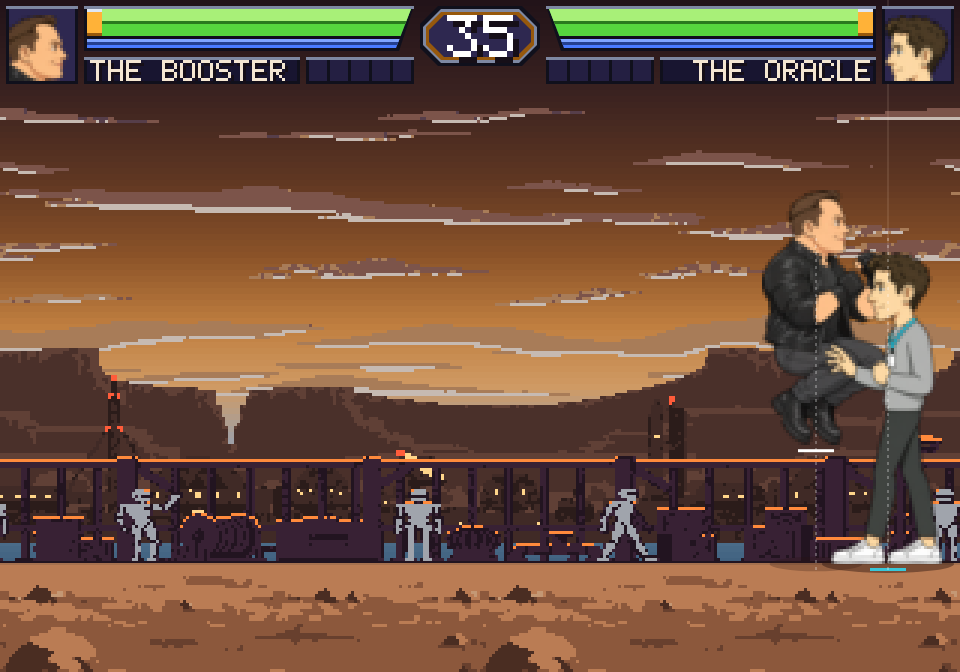
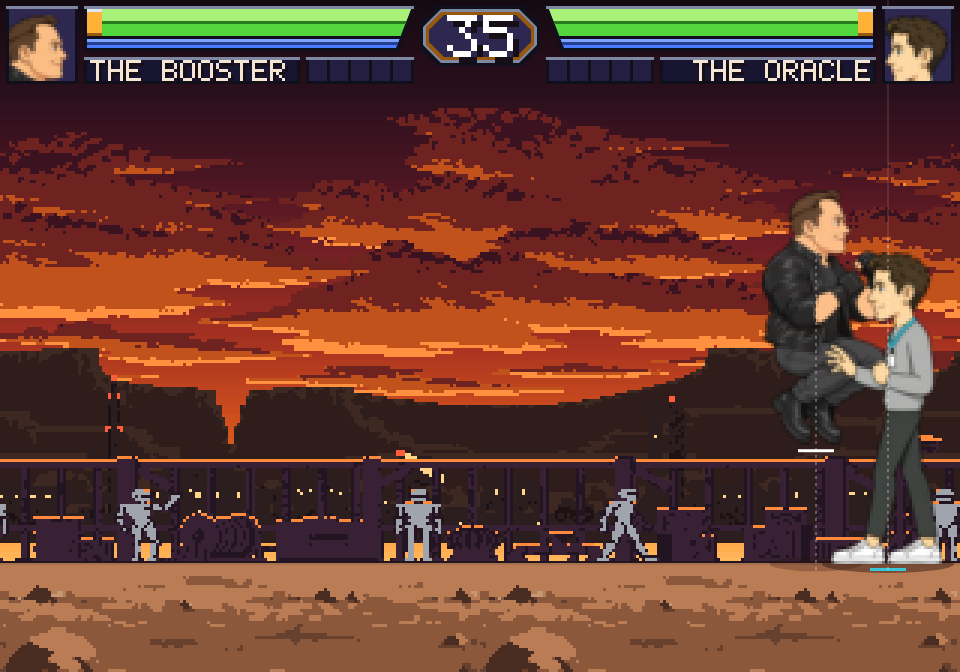
feat(arcade): give Mars a dust-storm sky instead of a muted clear day
The clear-day palette was too muted -- the mesas dissolved into the haze and the
stage lost the drama the previous Earth-sunset version had. I had claimed the sky
was already near the top of what Mars can plausibly do. That was wrong: I had picked
a CLEAR-DAY palette. Dust storms produce genuinely blazing red skies, so the drama
was available all along without giving up the setting.

Three candidates were rendered live and compared side by side rather than argued
about: the muted clear day, the Earth ramp restored, and a dust storm. The dust storm
wins -- deep crimson, no blue anywhere, and it still reads unmistakably as Mars
because the mesas, outpost, robots and regolith are untouched.

The gap between the Mars and Earth versions was never the sky colour. It was the
CLOUD SHAPES. Thin wisps are the correct call for a calm Martian day and they were
costing all the drama. The clouds are regenerated as dust-storm banks with real
vertical mass, built from torn wind-sheared horizontal shelves rather than
cauliflower lobes -- which is what keeps them reading as dust rather than water
vapour while hitting as hard as cumulus.

Silhouettes darkened at the same time so the mesas read as landforms. That could NOT
be done by handing the normaliser a darker palette: modal voting maps each source
pixel to its nearest entry, so two uniformly darker entries both lost to whichever
was closer and the ridge collapsed to one tone. The tool reported `1/2 entries used`,
[…]

diff --git a/src/game/marsArcadeStage.ts b/src/game/marsArcadeStage.ts
@@ -142,9 +142,9 @@ export interface MarsArcadeBand {
  * visible banding, because the cabinet should still look drawn rather than shaded.
  */
 const SKY_ANCHORS: ReadonlyArray<readonly [number, string]> = [
-  [0, '#221319'], [30, '#3a2220'], [58, '#5e3622'], [84, '#8a5228'],
-  [108, '#c07f40'], [128, '#cf9a64'], [146, '#9fa0a6'], [162, '#6e8ba0'],
-  [175, '#52728e'], [188, '#3e5f7e'],
+  [0, '#160a12'], [30, '#2a0f1c'], [58, '#4a1522'], [84, '#752024'],
+  [114, '#a83320'], [142, '#d4521c'], [166, '#f57d22'], [176, '#ff9e3c'],
+  [188, '#ffbe63'],
 ]
 const SKY_STEP = 2
 
@@ -211,9 +211,9 @@ export const MARS_ARCADE_BANDS: MarsArcadeBand[] = [...skyRamp(), ...FLOOR_BANDS
 const BACKDROP_ROOT = '/art-source/arcade/generated/backdrop-v1'
 
 export const MARS_ARCADE_BACKDROP: MarsArcadeBackdropLayer[] = [
-  { id: 'clouds', src: `${BACKDROP_ROOT}/clouds-mars-320x96.png`, parallax: 0.1, spanWidth: 320, width: 320, height: 96, bottomRow: 132 },
-  { id: 'ridge', src: `${BACKDROP_ROOT}/ridge-mars-320x56.png`, parallax: 0.2, spanWidth: 320, width: 320, height: 56, bottomRow: 172 },
-  { id: 'colony', src: `${BACKDROP_ROOT}/colony-mars-320x56.png`, parallax: 0.42, spanWidth: 320, width: 320, height: 56, bottomRow: 181 },
+  { id: 'clouds', src: `${BACKDROP_ROOT}/clouds-dust-320x96.png`, parallax: 0.1, spanWidth: 320, width: 320, height: 96, bottomRow: 132 },
+  { id: 'ridge', src: `${BACKDROP_ROOT}/ridge-mars-dark-320x56.png`, parallax: 0.2, spanWidth: 320, width: 320, height: 56, bottomRow: 172 },
+  { id: 'colony', src: `${BACKDROP_ROOT}/colony-mars-dark-320x56.png`, parallax: 0.42, spanWidth: 320, width: 320, height: 56, bottomRow: 181 },
   { id: 'apron', src: `${BACKDROP_ROOT}/apron-mars-320x44.png`, parallax: 0.74, spanWidth: 320, width: 320, height: 44, bottomRow: 189 },
   { id: 'ground', src: `${BACKDROP_ROOT}/ground-160x36.png`, parallax: 1, spanWidth: 160, width: 160, height: 36, bottomRow: 224 },
 ]

diff --git a/asset-reports/mars-arcade-backdrop-2026-09-22.md b/asset-reports/mars-arcade-backdrop-2026-09-22.md
@@ -214,3 +214,45 @@ grit; on the apron plane it stands about 28 px and reads as a machine.
 
 **The DC-9 is gone from the backdrop only.** `fx.flyby` — THE CAPTAIN's special — still
 carries it, and was deliberately left alone because it is a move, not scenery.
+
+## The dust-storm pass — 2026-09-22 (late)
+
+Owner on the clear-day Mars palette: *"too muted, might as well just give it the earth
+blazing sky."*
+
+**The muted look was my mistake, not a constraint of the planet.** I had said the sky was
+already near the top of what Mars can plausibly do, and that was wrong — I had picked a
+CLEAR-DAY palette. Mars dust storms produce genuinely blazing red skies, so the drama was
+available the whole time without giving up the setting.
+
+Three candidates were rendered live and compared side by side rather than argued about:
+
+| | sky | clouds | verdict |
+| --- | --- | --- | --- |
+| A | clear-day butterscotch, blue horizon | thin wisps | rejected — muted, and the mesas dissolved into it |
+| C | the Earth ramp restored | big cumulus | the drama target, but reads as Earth |
+| **B+** | **dust storm, deep crimson, no blue** | **heavy dust banks** | **chosen** |
+
+**The gap between B and C was never the sky colour — it was the cloud SHAPES.** Thin
+wisps are the meteorologically correct call for a calm Martian day, and they were costing
+all the drama. Regenerating them as dust-storm banks with real vertical mass closed it:
+the banks are built from torn, wind-sheared horizontal shelves rather than cauliflower
+lobes, which is what keeps them reading as dust rather than water vapour while hitting as
+hard as cumulus.
+
+The silhouettes were darkened at the same time so the mesas read as landforms instead of
+dissolving into the haze. **That darkening could not be done by handing the normaliser a
+darker palette** — modal voting maps each source pixel to its NEAREST entry, so two
+uniformly darker entries both lost to whichever was closer and the ridge collapsed to a
+single tone. The tool reported `1/2 entries used`, which is precisely what that check is
+for. Darkening has to happen AFTER the vote, as a colour swap on the finished tile.
+
+Flatness now measures **21.6%** for the two commonest colours, up slightly from the muted
+version's 16.9%. That is expected and fine: a dramatic sky concentrates more pixels into
+its dominant reds. It is a spread metric, not a quality one — what it exists to catch is a
+two-tone void, and the retired stage sat at 88.5%.
+
+**Carried forward:** `fx.flyby` is still specified against the old palette. THE CAPTAIN's
+DC-9 was briefed as a flat silhouette that should read as *dignified*, and against this
+crimson sky it will need checking when that effect is drawn — probably a lighter treatment
+so it does not vanish into the dust banks.
